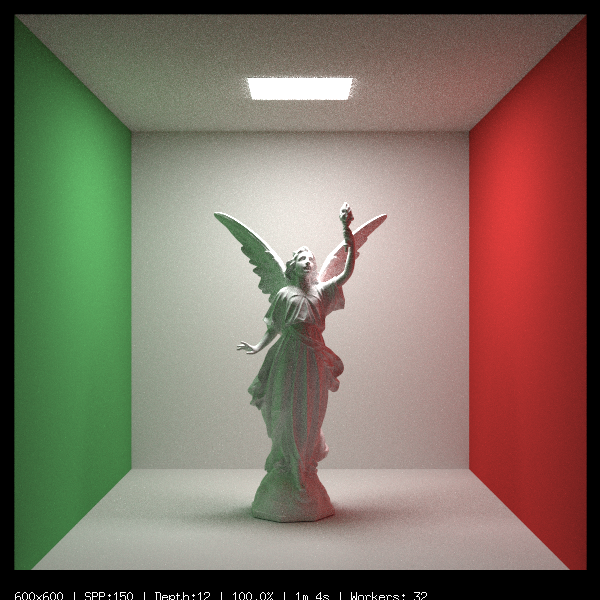
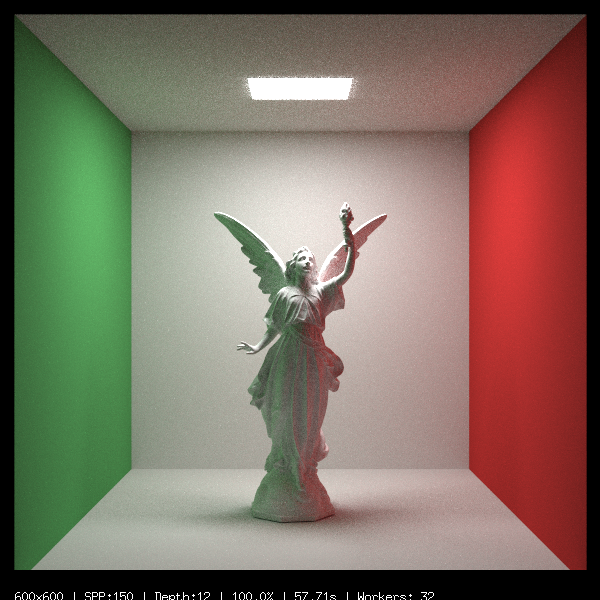
testing mid size luxty statue

diff --git a/rt/scenes.go b/rt/scenes.go
@@ -710,7 +710,7 @@ func CornellBoxLucy() (*HittableList, *Camera) {
 	scale := 0.25
 
 	lucy, err := LoadOBJWithTransform(
-		"assets/models/lucy_low.obj",
+		"assets/models/lucy_mid.obj",
 		lucyMat,
 		NewTransform().
 			SetScale(Vec3{X: scale, Y: scale, Z: scale}).
